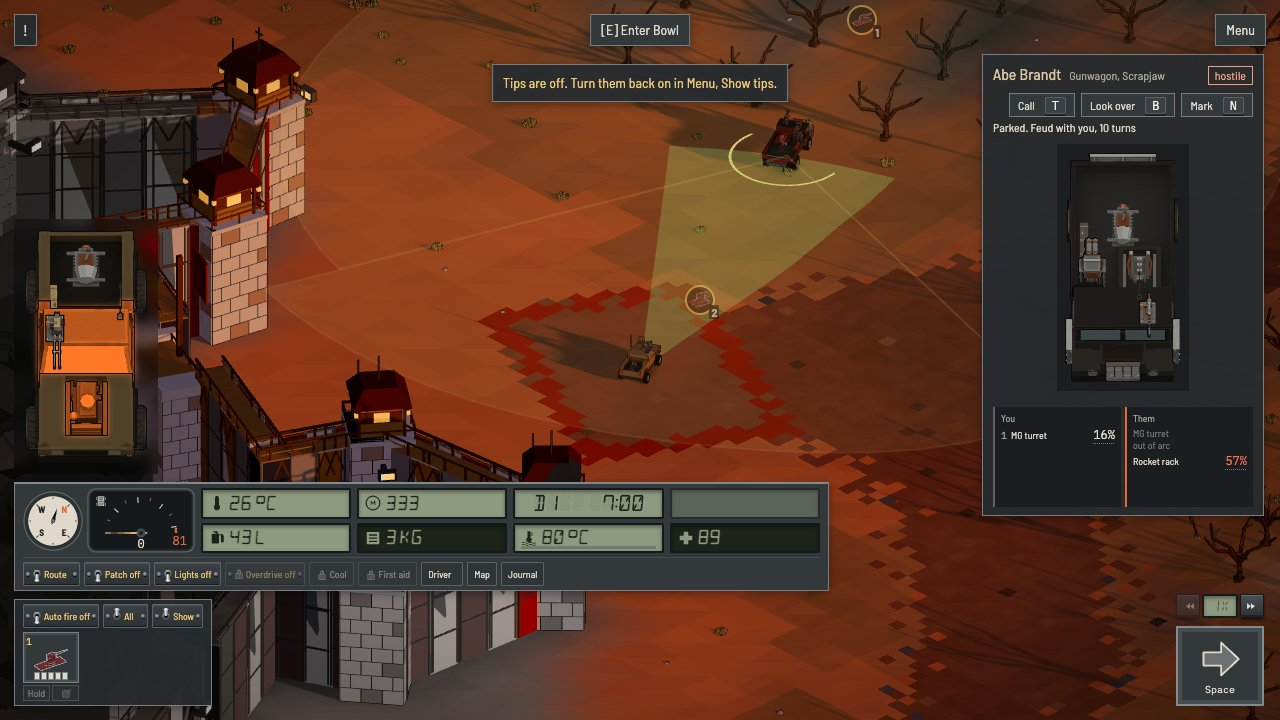
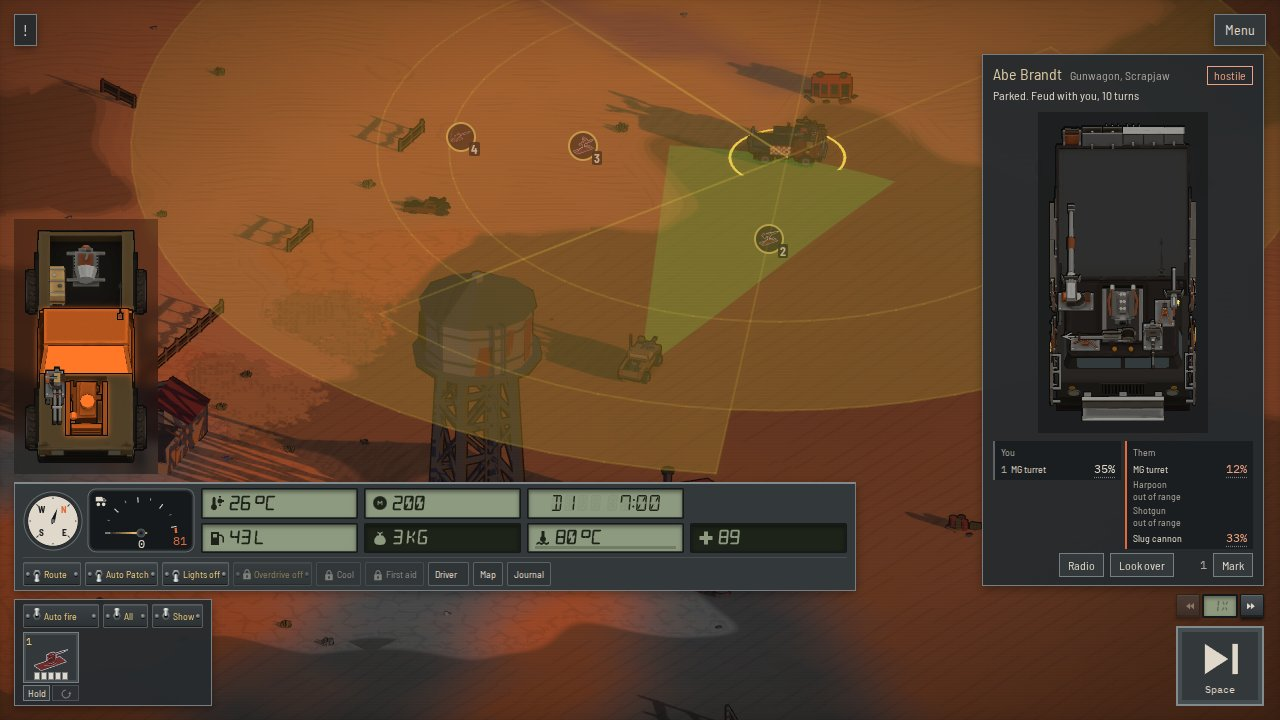
Stack the truck hover card with the drawing over You and Them

diff --git a/game/src/ui/hud.ts b/game/src/ui/hud.ts
@@ -199,6 +199,7 @@ export class Hud {
   private readonly inspected: TruckConditionView;
   private readonly inspectedDraw: HTMLElement;
   private inspectedAimable = false;
+  private inspectedOther = false;
   private inspectedId: string | null = null;
   private infoColumn = el("div", { class: "info-column" });
   private contracts = panel("contracts dock-panel", rightDock());
@@ -268,7 +269,7 @@ export class Hud {
     this.info.style.height = `${slot}px`;
     this.info.style.maxHeight = this.inspectedAimable && phoneMode() ? "none" : "";
     if (this.inspectedAimable) this.growForAim(top, slot);
-    if (!phoneMode()) this.growForLists(top);
+    this.fillToFloor(top);
     this.coverUnder(uiSize().layerRect(this.info).bottom);
     this.placeSide();
     this.inspected.fitTo(this.inspectedDraw);
@@ -334,12 +335,8 @@ export class Hud {
     this.info.style.height = `${Math.min(tallest, Math.max(slot, fits))}px`;
   }
 
-  private growForLists(top: number): void {
-    const lists = this.infoColumn.querySelector<HTMLElement>(".hitcard");
-    const over = lists ? lists.scrollHeight - lists.clientHeight : 0;
-    if (over <= 0) return;
-    const tallest = this.sideFloor(this.info) - top;
-    this.info.style.height = `${Math.min(tallest, this.info.offsetHeight + over)}px`;
+  private fillToFloor(top: number): void {
+    if (this.inspectedOther && !phoneMode()) this.info.style.height = `${this.sideFloor(this.info) - top}px`;
   }
 
   private coverUnder(bottom: number | null): void {
@@ -807,6 +804,7 @@ export class Hud {
     }
     const aim = this.aimOf(w, v);
     this.inspectedAimable = aim !== undefined;
+    this.inspectedOther = !isPlayerTruck(w, v);
     this.inspected.render(v, w.player.paint, aim);
     this.info.style.display = "";
     this.infoBody.replaceChildren(

diff --git a/game/src/ui/styles/panels.css b/game/src/ui/styles/panels.css
@@ -272,7 +272,7 @@
 }
 .info-actions {
   flex: 0 0 auto;
-  margin-top: var(--space-4);
+  margin-top: var(--space-2);
   display: flex;
   flex-wrap: wrap;
   justify-content: flex-end;
@@ -307,13 +307,18 @@
   flex: 1;
   min-height: 0;
   display: flex;
-  gap: var(--space-4);
-  margin-top: var(--space-4);
+  flex-direction: column;
+  gap: var(--space-2);
+  margin-top: var(--space-2);
 }
 .info-draw {
-  flex: 0 0 var(--info-draw-width);
+  flex: 1 1 0;
+  width: 100%;
   min-width: 0;
-  min-height: 0;
+  min-height: calc(var(--space-4) * 6);
+  display: flex;
+  align-items: center;
+  justify-content: center;
   overflow: hidden;
 }
 .info .condition-aim {
@@ -321,21 +326,19 @@
 }
 .info-column {
   position: relative;
-  flex: 1 1 0;
+  flex: 0 1 auto;
   min-width: 0;
+  min-height: 0;
   display: flex;
   flex-direction: column;
-  min-height: 0;
 }
 .hitcard {
-  flex: 1;
-  display: flex;
-  flex-direction: column;
-  align-items: stretch;
-  justify-content: flex-start;
-  gap: var(--space-2);
   min-height: 0;
   overflow-y: auto;
+  display: grid;
+  grid-template-columns: repeat(auto-fit, minmax(var(--info-well-min), 1fr));
+  align-items: start;
+  gap: var(--space-2);
 }
 .hc-well {
   flex: 0 0 auto;

diff --git a/game/src/ui/hitCard.test.ts b/game/src/ui/hitCard.test.ts
@@ -263,6 +263,22 @@ describe("the rendered hover card", () => {
     expect(wells[1].find("hc-none")[0]?.textContent).toBe("No weapons");
   });
 
+  it("keeps its box while hidden and drops it only when empty", () => {
+    const { world, them } = createDuel();
+    const host = new Node_("div");
+    const card = new HitCard(host as unknown as HTMLElement);
+    card.render(world, them.id, null);
+    const root = host.children[0];
+    card.show();
+    card.hide();
+    expect(root.style).toMatchObject({ visibility: "hidden" });
+    expect(root.style.display).not.toBe("none");
+    card.show();
+    expect(root.style.visibility).toBe("");
+    card.render(world, null, null);
+    expect(root.style.display).toBe("none");
+  });
+
   it("marks only the selected gun of mine", () => {
     const { world, them, mine } = createDuel();
     expect(render(world, them.id, mine.part.id).find("selected")).toHaveLength(1);

diff --git a/game/src/ui/truck-condition-view.ts b/game/src/ui/truck-condition-view.ts
@@ -19,6 +19,7 @@ const METERS_PER_CELL = 0.65;
 const FLASH_MS = 300;
 const FLASH_TURNS = 2;
 const FLASH_HOLD = 0.65;
+const MAX_FIT_ZOOM = 1.5;
 
 type ConditionPart = ReturnType<TruckConditionReadout["update"]>[number];
 export type PartWork = { partId: string; done: number };
@@ -191,7 +192,7 @@ export class TruckConditionView {
   fitTo(box: HTMLElement): void {
     const outline = parseFloat(token("--space-4"));
     const natural = this.naturalSize();
-    this.root.style.zoom = String(Math.min((box.clientHeight - outline) / natural.height, (box.clientWidth - outline) / natural.width));
+    this.root.style.zoom = String(Math.min(MAX_FIT_ZOOM, (box.clientHeight - outline) / natural.height, (box.clientWidth - outline) / natural.width));
   }
 
   boxFor(cell: number): { width: number; height: number } {

diff --git a/game/src/ui/guide/page.ts b/game/src/ui/guide/page.ts
@@ -90,7 +90,7 @@ const GROUPS: Group[] = [
   {
     title: "Page and phone sizes",
     prefixes: [
-      "--compass-w", "--slider-", "--info-card-height", "--info-draw-width", "--minimap-size", "--world-map-size", "--talk-width", "--quest-page-", "--quest-text-", "--quest-side-",
+      "--compass-w", "--slider-", "--info-card-height", "--info-well-min", "--minimap-size", "--world-map-size", "--talk-width", "--quest-page-", "--quest-text-", "--quest-side-",
       "--quest-art-min", "--quest-frame-", "--page-", "--art-band-", "--survey-picture-w", "--layer-", "--safe-", "--touch-target", "--phone-",
     ],
     sample: boxSample,

diff --git a/game/src/ui/hitCard.ts b/game/src/ui/hitCard.ts
@@ -122,10 +122,12 @@ export class HitCard {
   }
 
   hide(): void {
-    this.root.style.display = 'none';
+    if (this.root.childElementCount === 0) this.root.style.display = 'none';
+    else this.root.style.visibility = 'hidden';
   }
 
   show(): void {
+    this.root.style.visibility = '';
     if (this.root.childElementCount === 0) return this.hide();
     this.root.style.display = '';
   }

diff --git a/game/src/ui/tokens.css b/game/src/ui/tokens.css
@@ -246,7 +246,7 @@
   --panel-xl: 520px;
   --panel-m-height: 340px;
   --info-card-height: 300px;
-  --info-draw-width: 104px;
+  --info-well-min: 104px;
   --dock-width: 282px;
   --journal-side-width: 400px;
   --board-held-width: 400px;

diff --git a/game/docs/ui.md b/game/docs/ui.md
@@ -138,7 +138,7 @@ The always-on HUD answers a short list of questions without a click: can I keep 
 - The bottom bar holds four drawer tabs (`.drawer-tabs`) that show the drawer's word, the speed dial, every LCD readout including health, the action buttons and End turn, all always on. The readouts sit right of the dial on a fixed three by three grid with a named cell each, so a readout never moves when another is absent: health, fuel and supplies, then engine and heat, then money, the clock and the run readout. The action buttons make one touch-height row with centered labels, and their switches drop the drawn lever. Desktop and phone both keep the key off the button face (see 12). End turn has a fixed narrow width and no icon. The log strip (`.log-strip`) is one row with the newest log line, cut with an ellipsis and with the whole line as its title. It sits right above End turn: in portrait across the width above the tabs and End turn, in landscape over the right half above the bar. A tap on it opens the Log drawer like the tab, and the bar grows by the strip and one gap, so drawers open above it. In portrait the log strip stops left of the speed keys (`.speed-keys`), which take the strip's row at the right. In portrait the instruments take their own block above the tabs, and the tabs share the width End turn leaves.
 - A drawer holds what the bar does not: Truck (the truck diagram and the hauler gauge), Guns (the weapons), Radio (the radio and the contracts) and Log. One is open at a time. A tap on its tab opens or closes it, and a tap on the map leaves it open, so the player can aim with Guns open. In portrait a drawer spans the width above the bar. In landscape Truck and Guns open over the left half and Radio and Log over the right half. A drawer scrolls inside and is never taller than the space between the top row and the bar.
 - The Guns tab takes the danger edge while the player is in combat. This is the attention level of 7, a mark that stays while the state is true. Nothing opens by itself.
-- The cursor card is right-aligned under the top row and ends one gap above the bar, the drawer or Center on truck under it. It scrolls inside. When the truck can be aimed at, it grows left to the layer width in portrait or a drawer's width in landscape, and down to its drawing's need, so its aim targets reach `--touch-target`. A tap that pins a truck never clicks the card that opens under the finger.
+- The cursor card is right-aligned under the top row and ends one gap above the bar, the drawer or Center on truck under it. It scrolls inside only on a short window or a phone in landscape. When the truck can be aimed at, it grows left to the layer width in portrait or a drawer's width in landscape, and down to its drawing's need, so its aim targets reach `--touch-target`. A tap that pins a truck never clicks the card that opens under the finger.
 - A modal fills the viewport inside the safe area, below the top row (`--modal-top`), and scrolls inside, with its close button in view. The head of the town, inventory, character and journal screens wraps: the title and the screen's own controls on the first row, the chips on the next, and a chip never breaks inside. The inventory keeps this stacked form on a phone, with its Rotate in the head, its Dump box and its scroll, since a three column working screen needs a desktop layer. The character screen keeps its skill tabs in rows of three, or two on a slim phone, and stacks the rank ladder into one column that scrolls with the screen. The bar and the drawers hide while one is open, and while Options is open. The inventory keeps End turn on view, since turns play from it. The player's timed job shows in the marker over the truck, as an NPC's does.
 - Drawer state lives in the UI and is not saved.
 
@@ -329,7 +329,7 @@ Use a shared piece before writing a new rule. A screen may add its own layout to
 - `.way-steps` is a numbered list of directions, built from `directionsSteps()` in `src/ui/directions-text.ts`: one `li` per step, the number in caption ink on a fixed column and the text wrapping under its own text. The radio keeps the same steps as one run of sentences through `directionsText()`.
 - `.log-strip` is the newest log line on one row, on a phone above End turn. It is a `.panel` with a button role, one line at `--phone-strip-h` (`--touch-target`) high, and it takes a tap to open the Log drawer. It is hidden under a modal and under Options with the rest of the bar.
 - `.drawer-tabs` is the tab row of the phone layout: one `.btn-l` per drawer, its word its accessible name, `.selected` on the open one and `.marked` for the danger edge of attention. Its drawer is the panel of its zone, set to scroll inside.
-- `.info-actions` is the action row of the truck card. It is the last child of the head and takes its own line right under the name line, right-aligned so its last button ends on the stance tag's right edge, and it wraps right-aligned on the narrow dock. This row's place is the truck card's own bend, not the pattern for actions: an action on a selected thing uses `.action-rows` after its facts. It holds Call, Look over and Mark as `.btn-s`, in that order, each shown by its own unlock: Call for a driven truck in a mode with the radio, Look over with the Perception basic, Mark with the Spotter perk. A refused button stays, dimmed, with its reason from the sim query (`callError()`, `lookOverError()`, `markError()`). Off touch each label ends in a `.key` cap from `keyCap()`, T, B and N, and on touch there are none and the row ends in the close button. A click does what the key does. The row sits above the state line, which bends the slot order of section 5, because the drawing under it takes the spare height and controls keep a fixed place (P14). The Marked countdown stays a quiet state line.
+- `.info-actions` is the action row of the truck card. It is the foot row of the card: the last row, right-aligned, wrapping right-aligned on the narrow dock. This row's place is the truck card's own bend, not the pattern for actions: an action on a selected thing uses `.action-rows` after its facts. It holds Call, Look over and Mark as `.btn-s`, in that order, each shown by its own unlock: Call for a driven truck in a mode with the radio, Look over with the Perception basic, Mark with the Spotter perk. A refused button stays, dimmed, with its reason from the sim query (`callError()`, `lookOverError()`, `markError()`). Off touch each label ends in a `.key` cap from `keyCap()`, T, B and N, and on touch there are none and the row ends in the close button. A click does what the key does. The row sits at the card's foot, so controls keep a fixed place (P14). The Marked countdown stays a quiet state line.
 - `.key` is a keyboard key or a mouse button, drawn as a keycap, as in the help panel. A shortcut listens for the physical key (`KeyboardEvent.code`), never the typed character, so it works in every keyboard layout. The keycap text is only a label.
 - `.amount .coin` is money from `moneyEl()`: the coin, sized in em by the text around it, then the number. The coin colors are the `--coin-*` tokens.
 - The HUD's truck diagram (`TruckConditionView` with `CONDITION_LENGTH_M` in `src/ui/hud.ts`) draws every truck at one scale, 30 px for 0.65 m, and shows a truck up to 7.8 m long at full size. A longer chassis, like the 11 m sorokonoga, zooms the whole diagram down until it fits, so the bottom left zone keeps its height and the parts keep their icons and colors. Only the HUD diagram shrinks. `chooseLayout()` in `src/ui/inventory-draw.ts` fits every desktop inventory grid with no scroll. It takes the room and the truck, and returns the columns, the cargo's place and the cell size. Cells run up to 42px with no floor, and a long truck gets smaller cells, not squashed ones. It tries cargo below, then cargo beside, for three columns and then for two. The first with cells of at least 24px wins, and otherwise the largest. A stacked screen, on a phone or a narrow layer, keeps a 28px floor and scrolls instead, through `stackedLayout()`. The fit holds across redraws and changes only when the truck, its row count, the UI size or the room changes, so a click, a purchase or a comparison never resizes the grid unless it adds cargo rows.
@@ -417,9 +417,9 @@ A screen where the player works on a truck has three columns: the subject on the
 
 1. Decision: fight, talk or leave, and if I fight, where do I aim.
 2. Key facts: who it is and its stance, my chance on it, its chance on me, and the drawing for aiming. Supporting facts: truck type, faction, motion, activity and states. Reference: the causes of each chance, in the tooltip on the chance. Distance is left out, because it changes no choice here and range already shows in the chances and their causes.
-3. Surface: the cursor card, in the right column. It has the radio's width and right edge, and fills the space between the system row and the radio with one HUD gap to each. The card is one height, `--info-card-height`, and grows only down over the right dock and the log, at most to the log's bottom edge or to the top of the instruments when their buttons reach under it, when the guns need more rows or the truck can be aimed at. The dock panels and the log hide while the card covers them.
-4. Grid: the head row holds the name, the truck type and faction in muted ink, and the stance tag at the right edge. The state line under it starts with Parked or Moving and the speed, then the activity and the states. Below, the drawing sits in a fixed column (`--info-draw-width`) beside You and Them, stacked and hugging their rows. Call, Look over and Mark sit in a foot row (`.info-actions`) with no keycaps on their faces. The lists never scroll at 1280x720, even with nine guns.
-5. Lists: the drawing is the aiming surface, so it keeps a column of its own. The chances are what the player reads, so they take the rest. You sits in a well with a neutral edge, and Them in a well with a danger edge. One line per gun: your key for the gun, the gun's name in caption size, then the chance. A long name wraps to two lines, and a blocked gun says why on a second line, out of range, out of arc or shut down.
+3. Surface: the cursor card, in the right column. It has the radio's width and right edge, and fills the space between the system row and the radio with one HUD gap to each. The card of another truck always fills down to the log's bottom edge, or to the top of the instruments when their buttons reach under it, so every enemy has one outline whether or not aim is locked. Only the player's own truck keeps the `--info-card-height` slot. The dock panels and the log hide while the card covers them. This bends P18, because the drawing is the aiming surface and gets the height.
+4. Grid: the head row holds the name, the truck type and faction in muted ink, and the stance tag at the right edge. The state line under it starts with Parked or Moving and the speed, then the activity and the states. Below, the drawing spans the card's width and takes all the height the other rows leave, fitted at most to 1.5x so it stays sharp. Under it You and Them sit side by side in a strip that hugs their rows (wells of at least `--info-well-min`, stacked on the narrow dock). Call, Look over and Mark sit in a foot row (`.info-actions`) with no keycaps on their faces. The lists never scroll at 1280x720, even with nine guns. Only on a window under 720px tall, or a phone in landscape, do they scroll inside the card, and the drawing keeps a minimum height. The card keeps its box while a turn plays, so the drawing does not refit.
+5. Lists: the drawing is the aiming surface, so it gets the most room. The chances are what the player reads, so they sit right under it. With many guns the lists take height and the drawing's cells may fall under 24px, which bends section 6's click minimum. You sits in a well with a neutral edge, and Them in a well with a danger edge. One line per gun: your key for the gun, the gun's name in caption size, then the chance. A long name wraps to two lines, and a blocked gun says why on a second line, out of range, out of arc or shut down.
 6. Color: hostility only in the tag. Chances by value: 50% and up brighter, 0% faint, the enemy's in danger ink. Parts show the same picture as the player's own truck drawing: their own color when healthy and a tier color only for damage.
 7. Type: four roles. Title for the name, body for words, caption for list heads, keys and gun names, mono for chances.
 8. Tooltip: hovering a chance opens Base, then one row per cause in percent, so the rows add up to the chance. It opens over the drawing, never over the lists.
